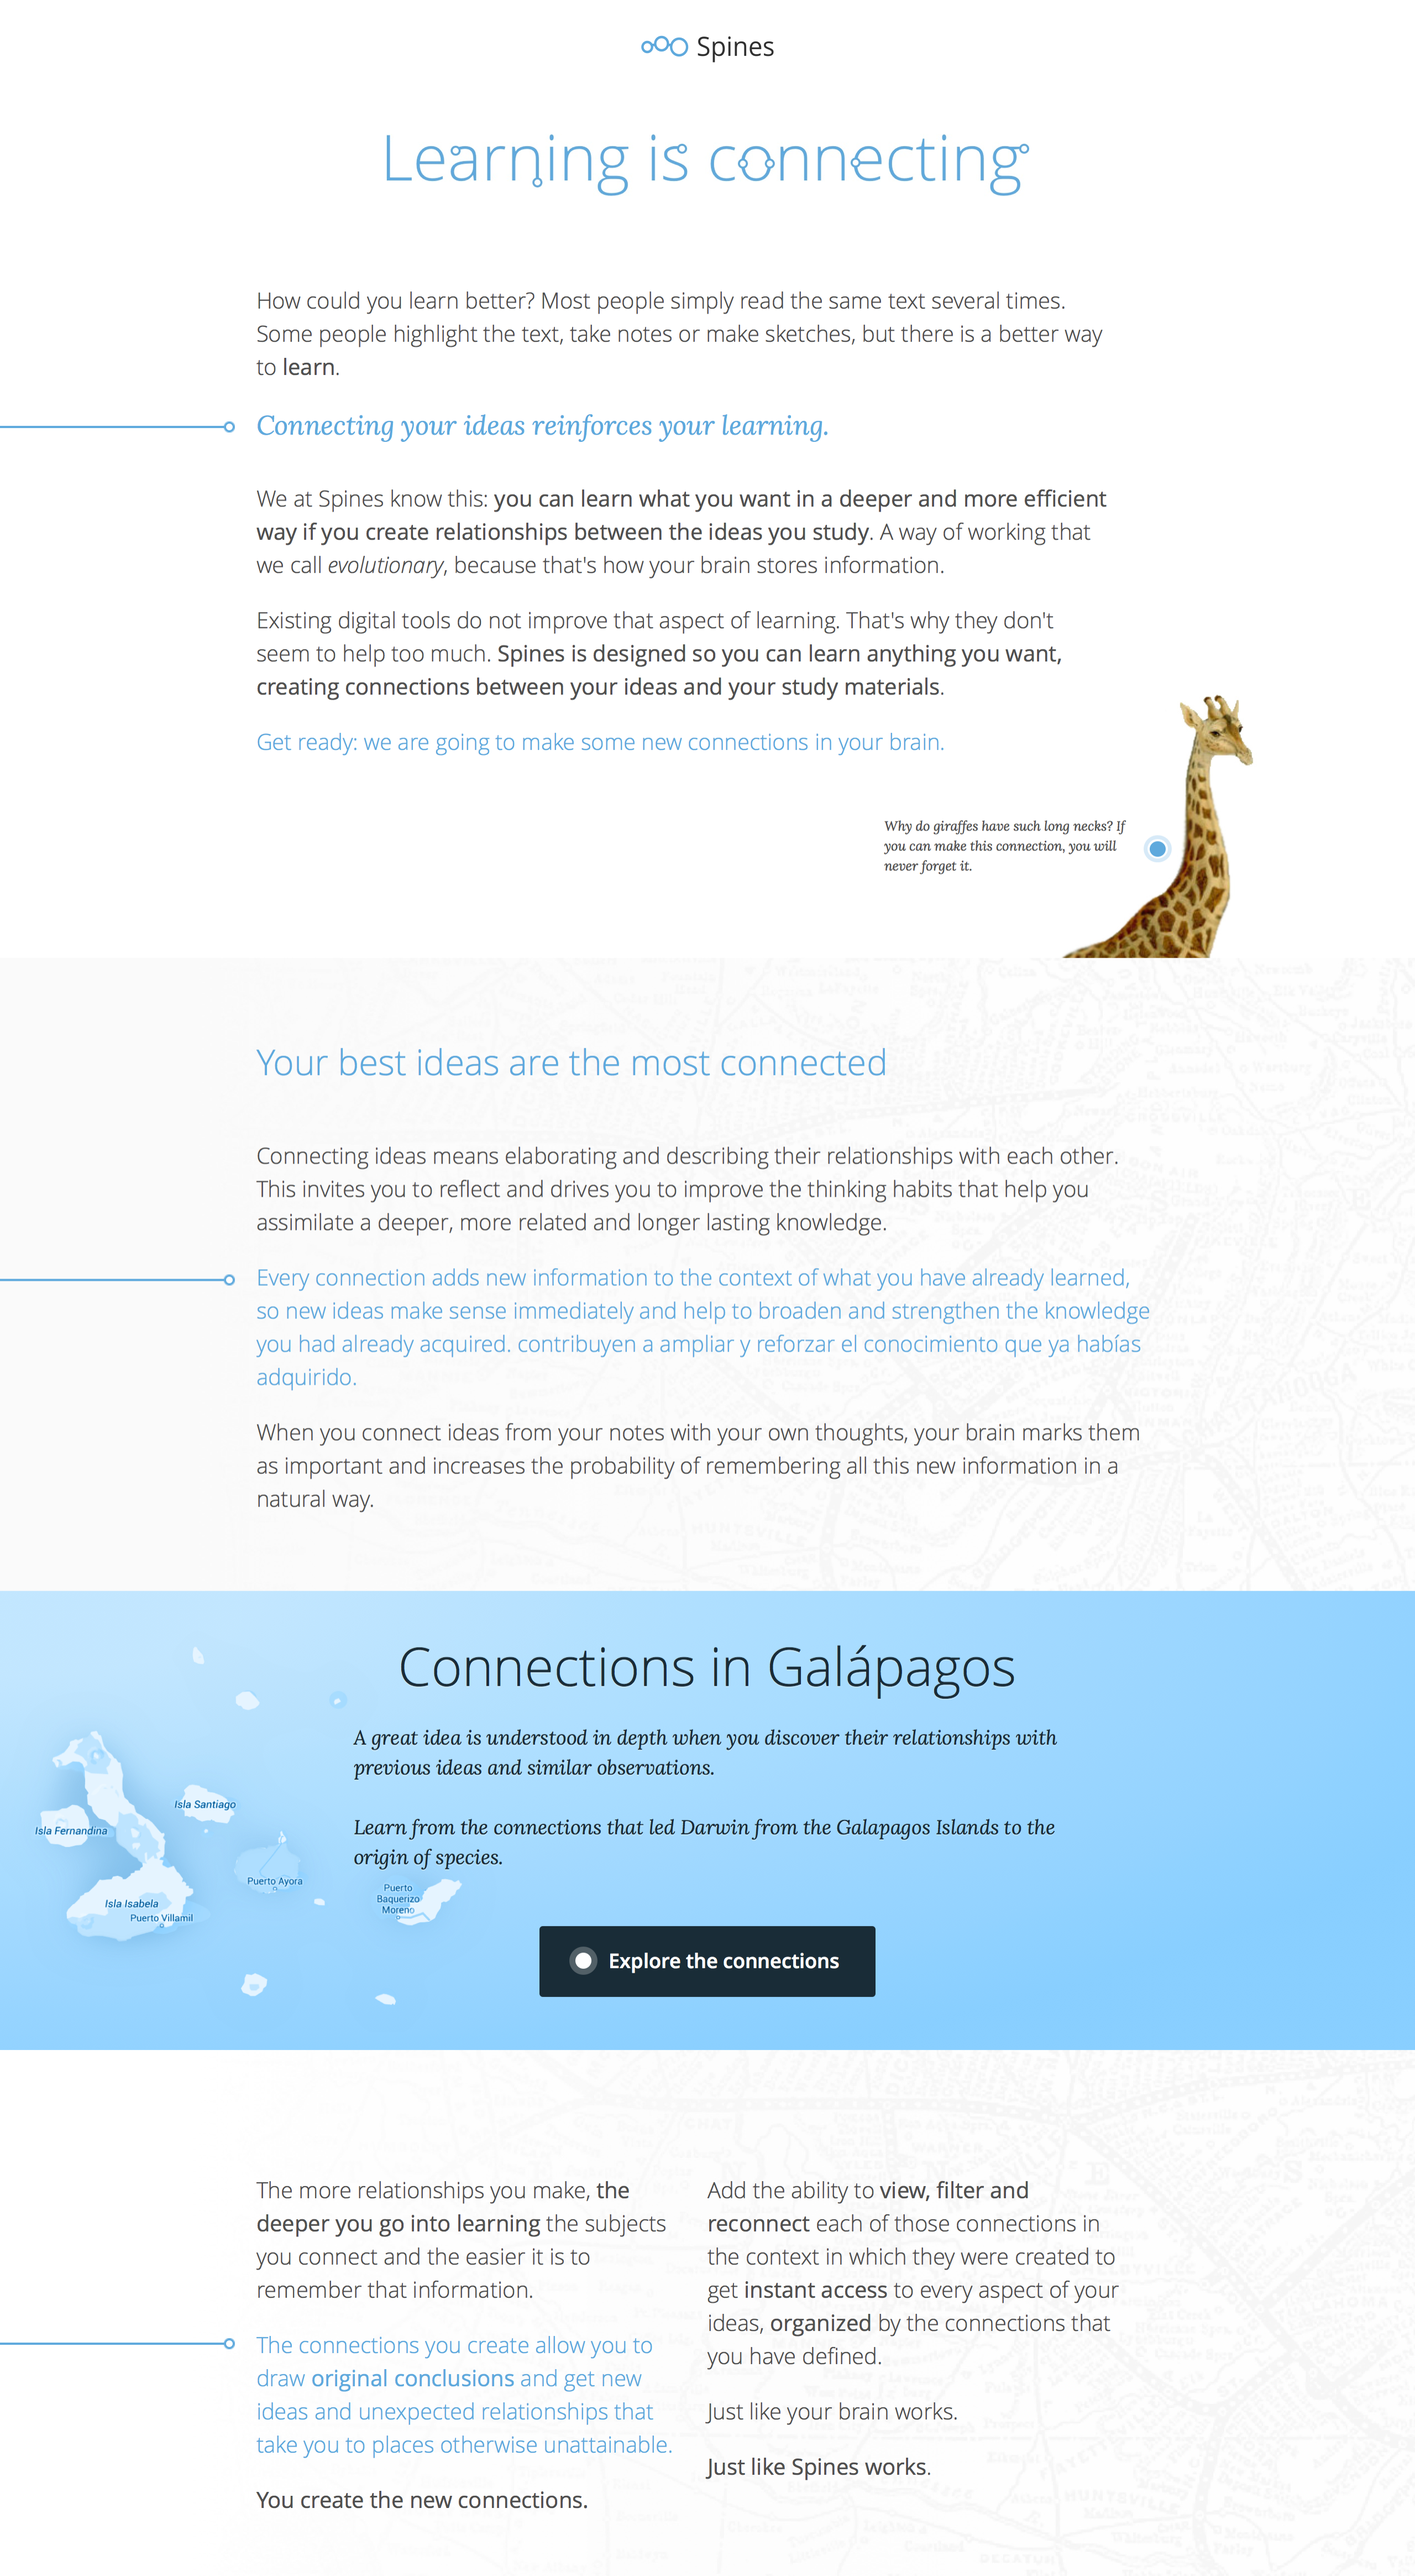
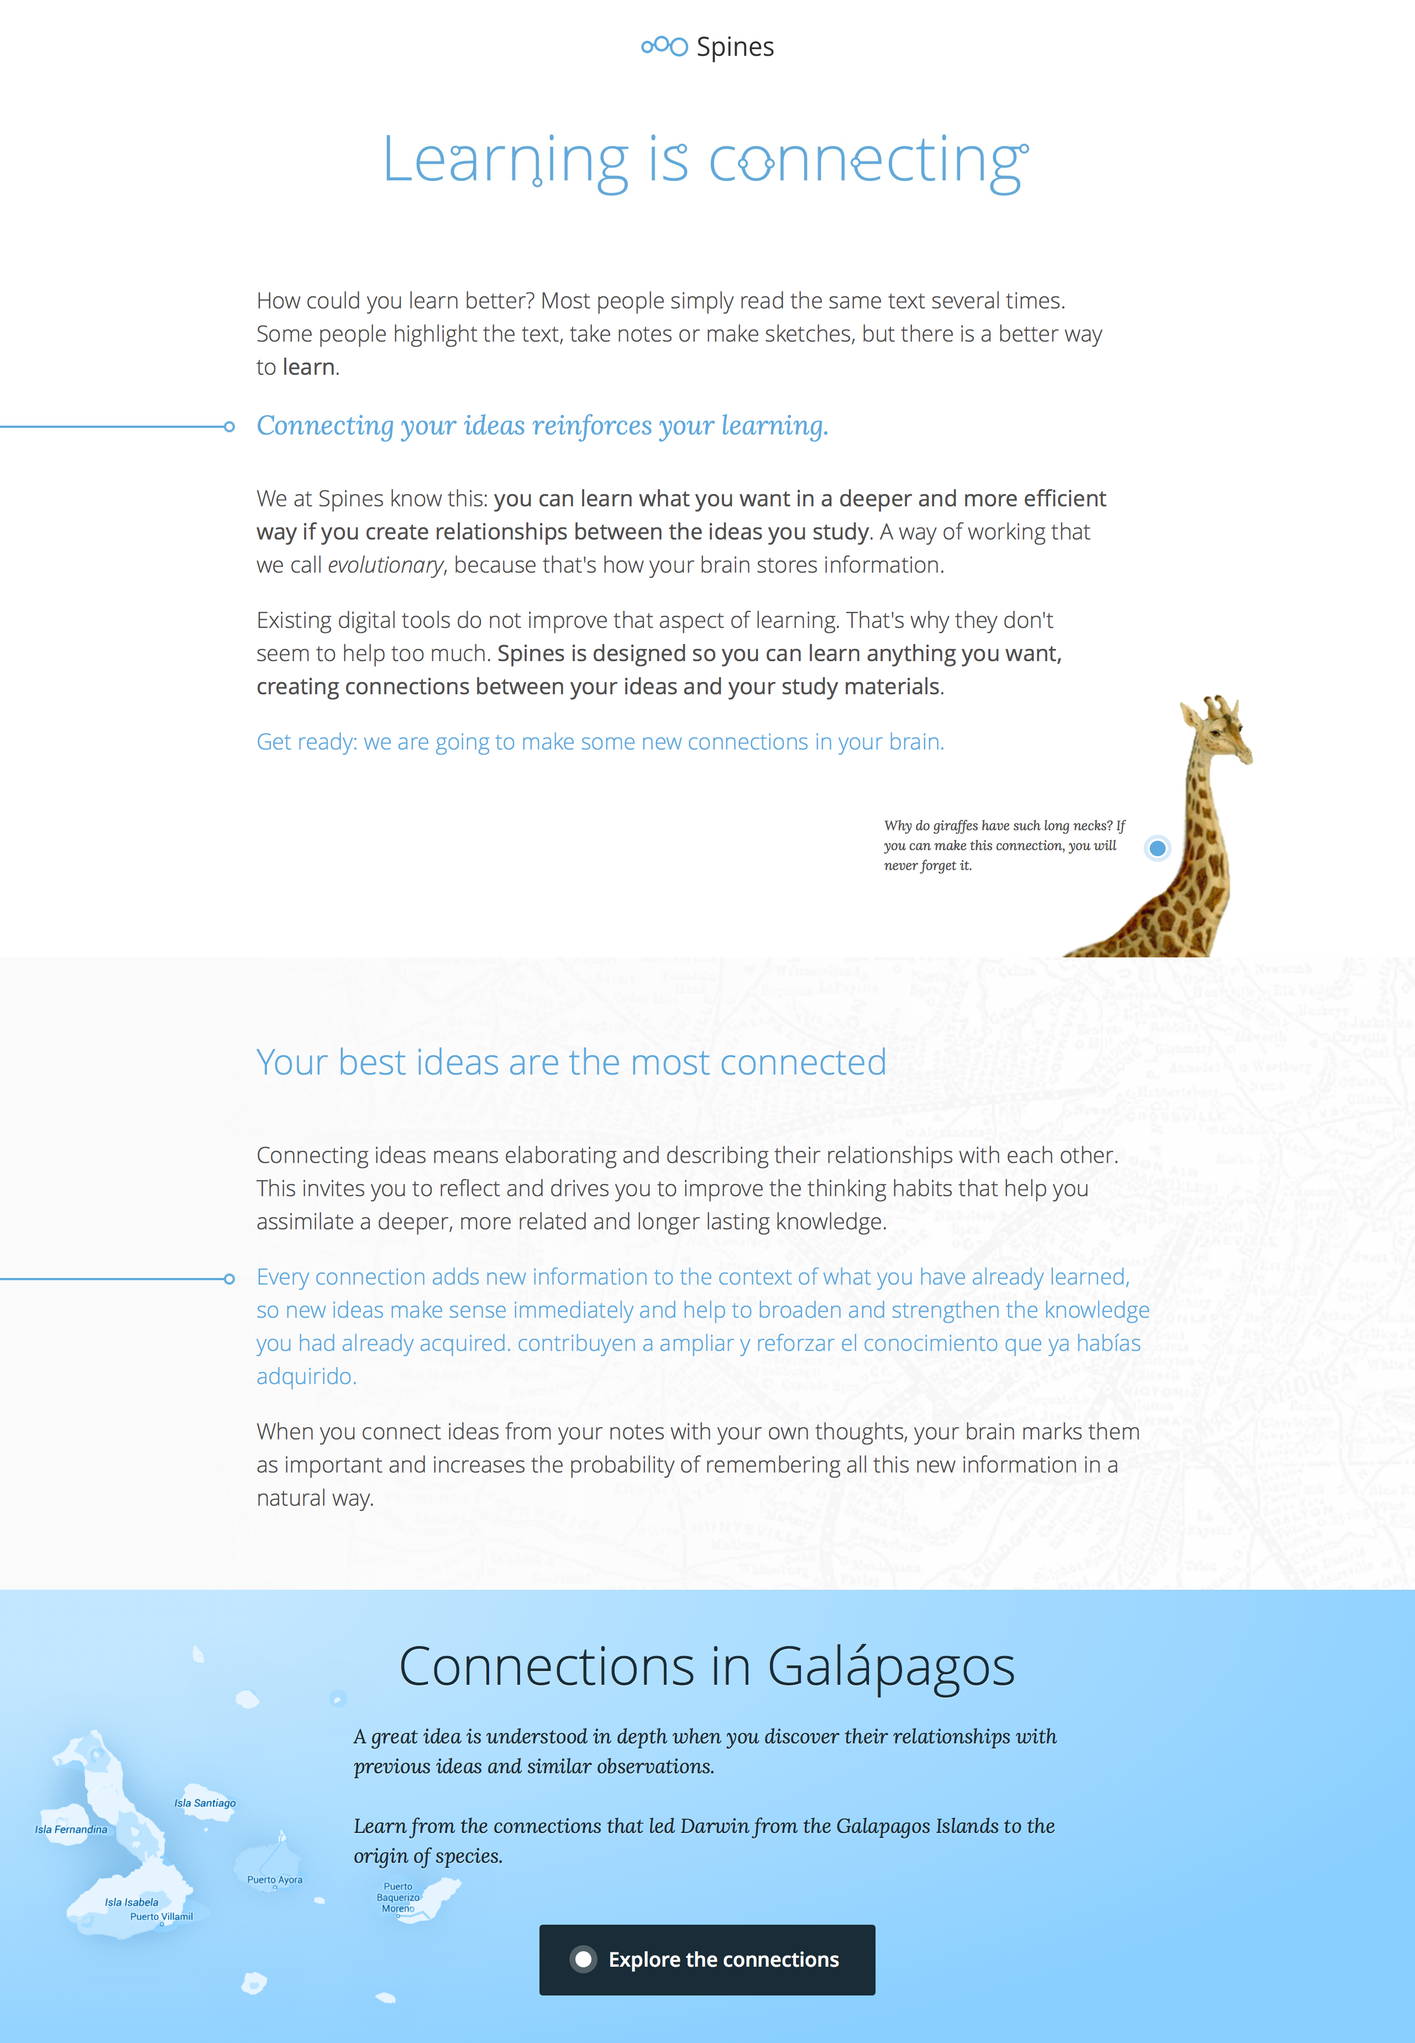
Hide everything unfinished.

diff --git a/_layouts/default.html b/_layouts/default.html
@@ -2,7 +2,7 @@
 <html>
 {% include head.html %}
 <body>
-  <div class="commit-bar"><strong>This is a work in progress</strong> — <span>Last update is #159: UI image filename. Minor corrections.</span></div>
+  <div class="commit-bar"><strong>This is a work in progress</strong> — <span>Last update is #163: Hide everything unfinished.</span></div>
   <div class="container">
     {% include header.html %}
     {{ content }}

diff --git a/_work/spineslandings.md b/_work/spineslandings.md
@@ -32,5 +32,5 @@ media:
     - "02.png"
     - "03.png"
     - "04.png"
-online: 0
+online: 1
 ---
